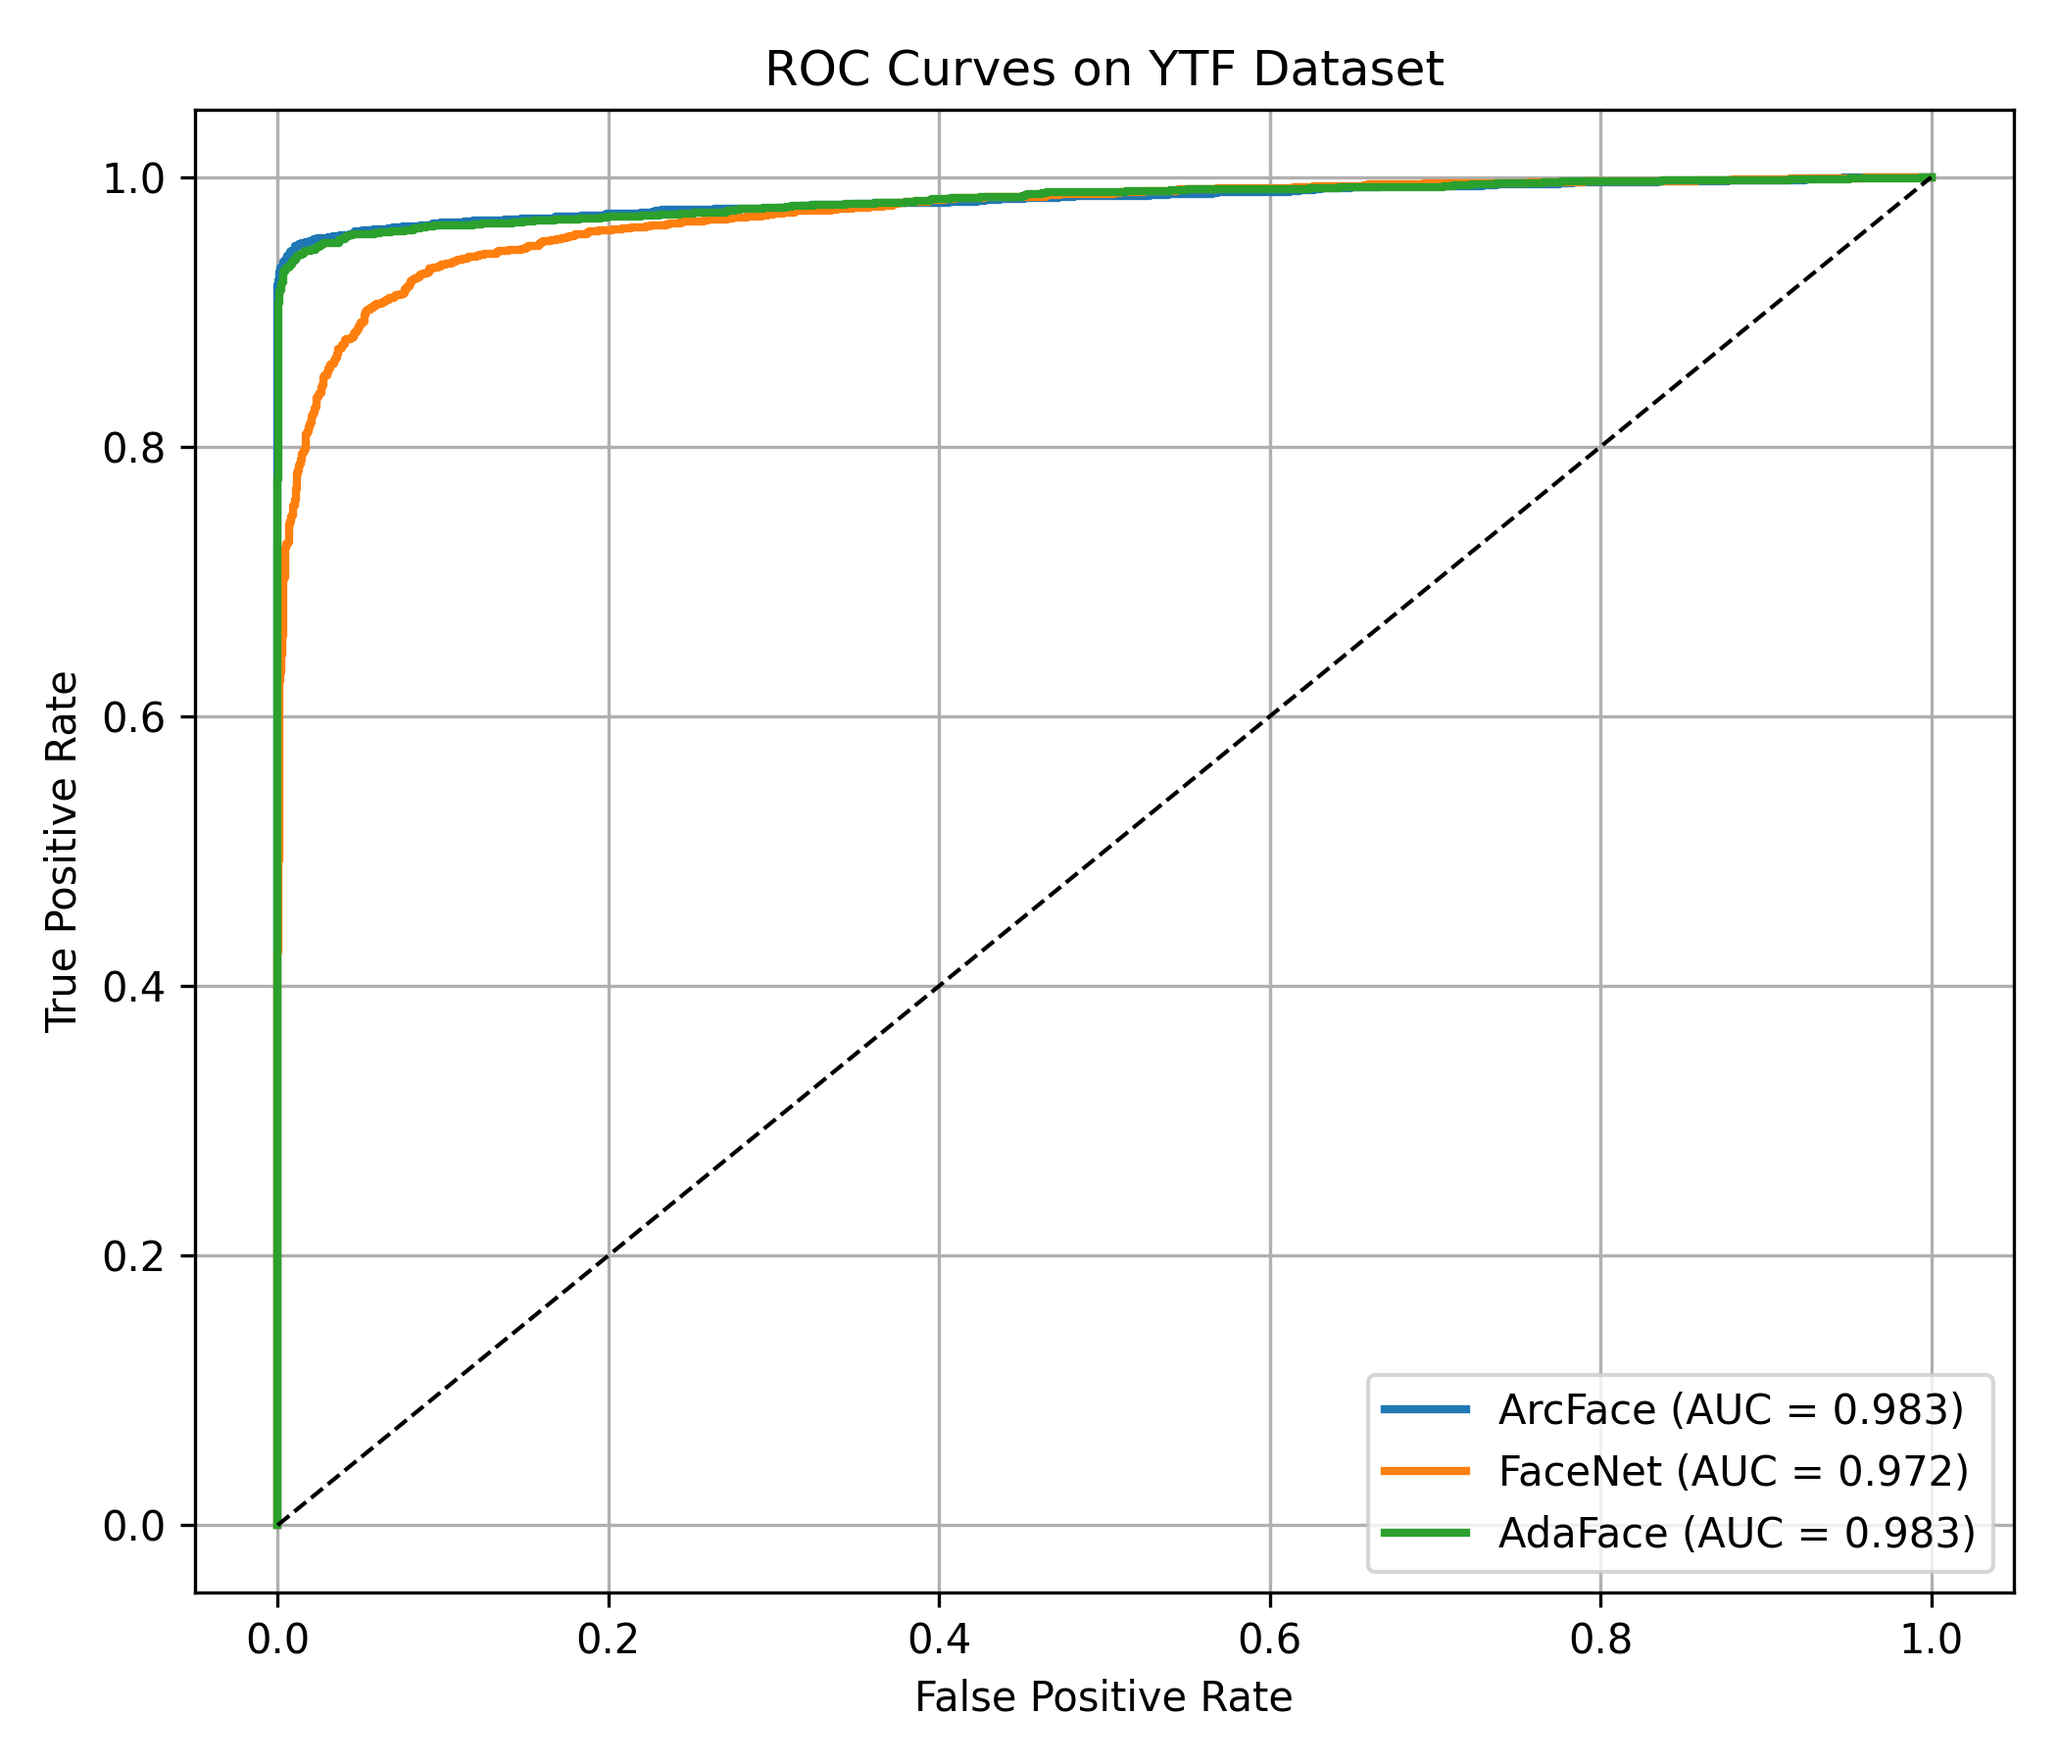
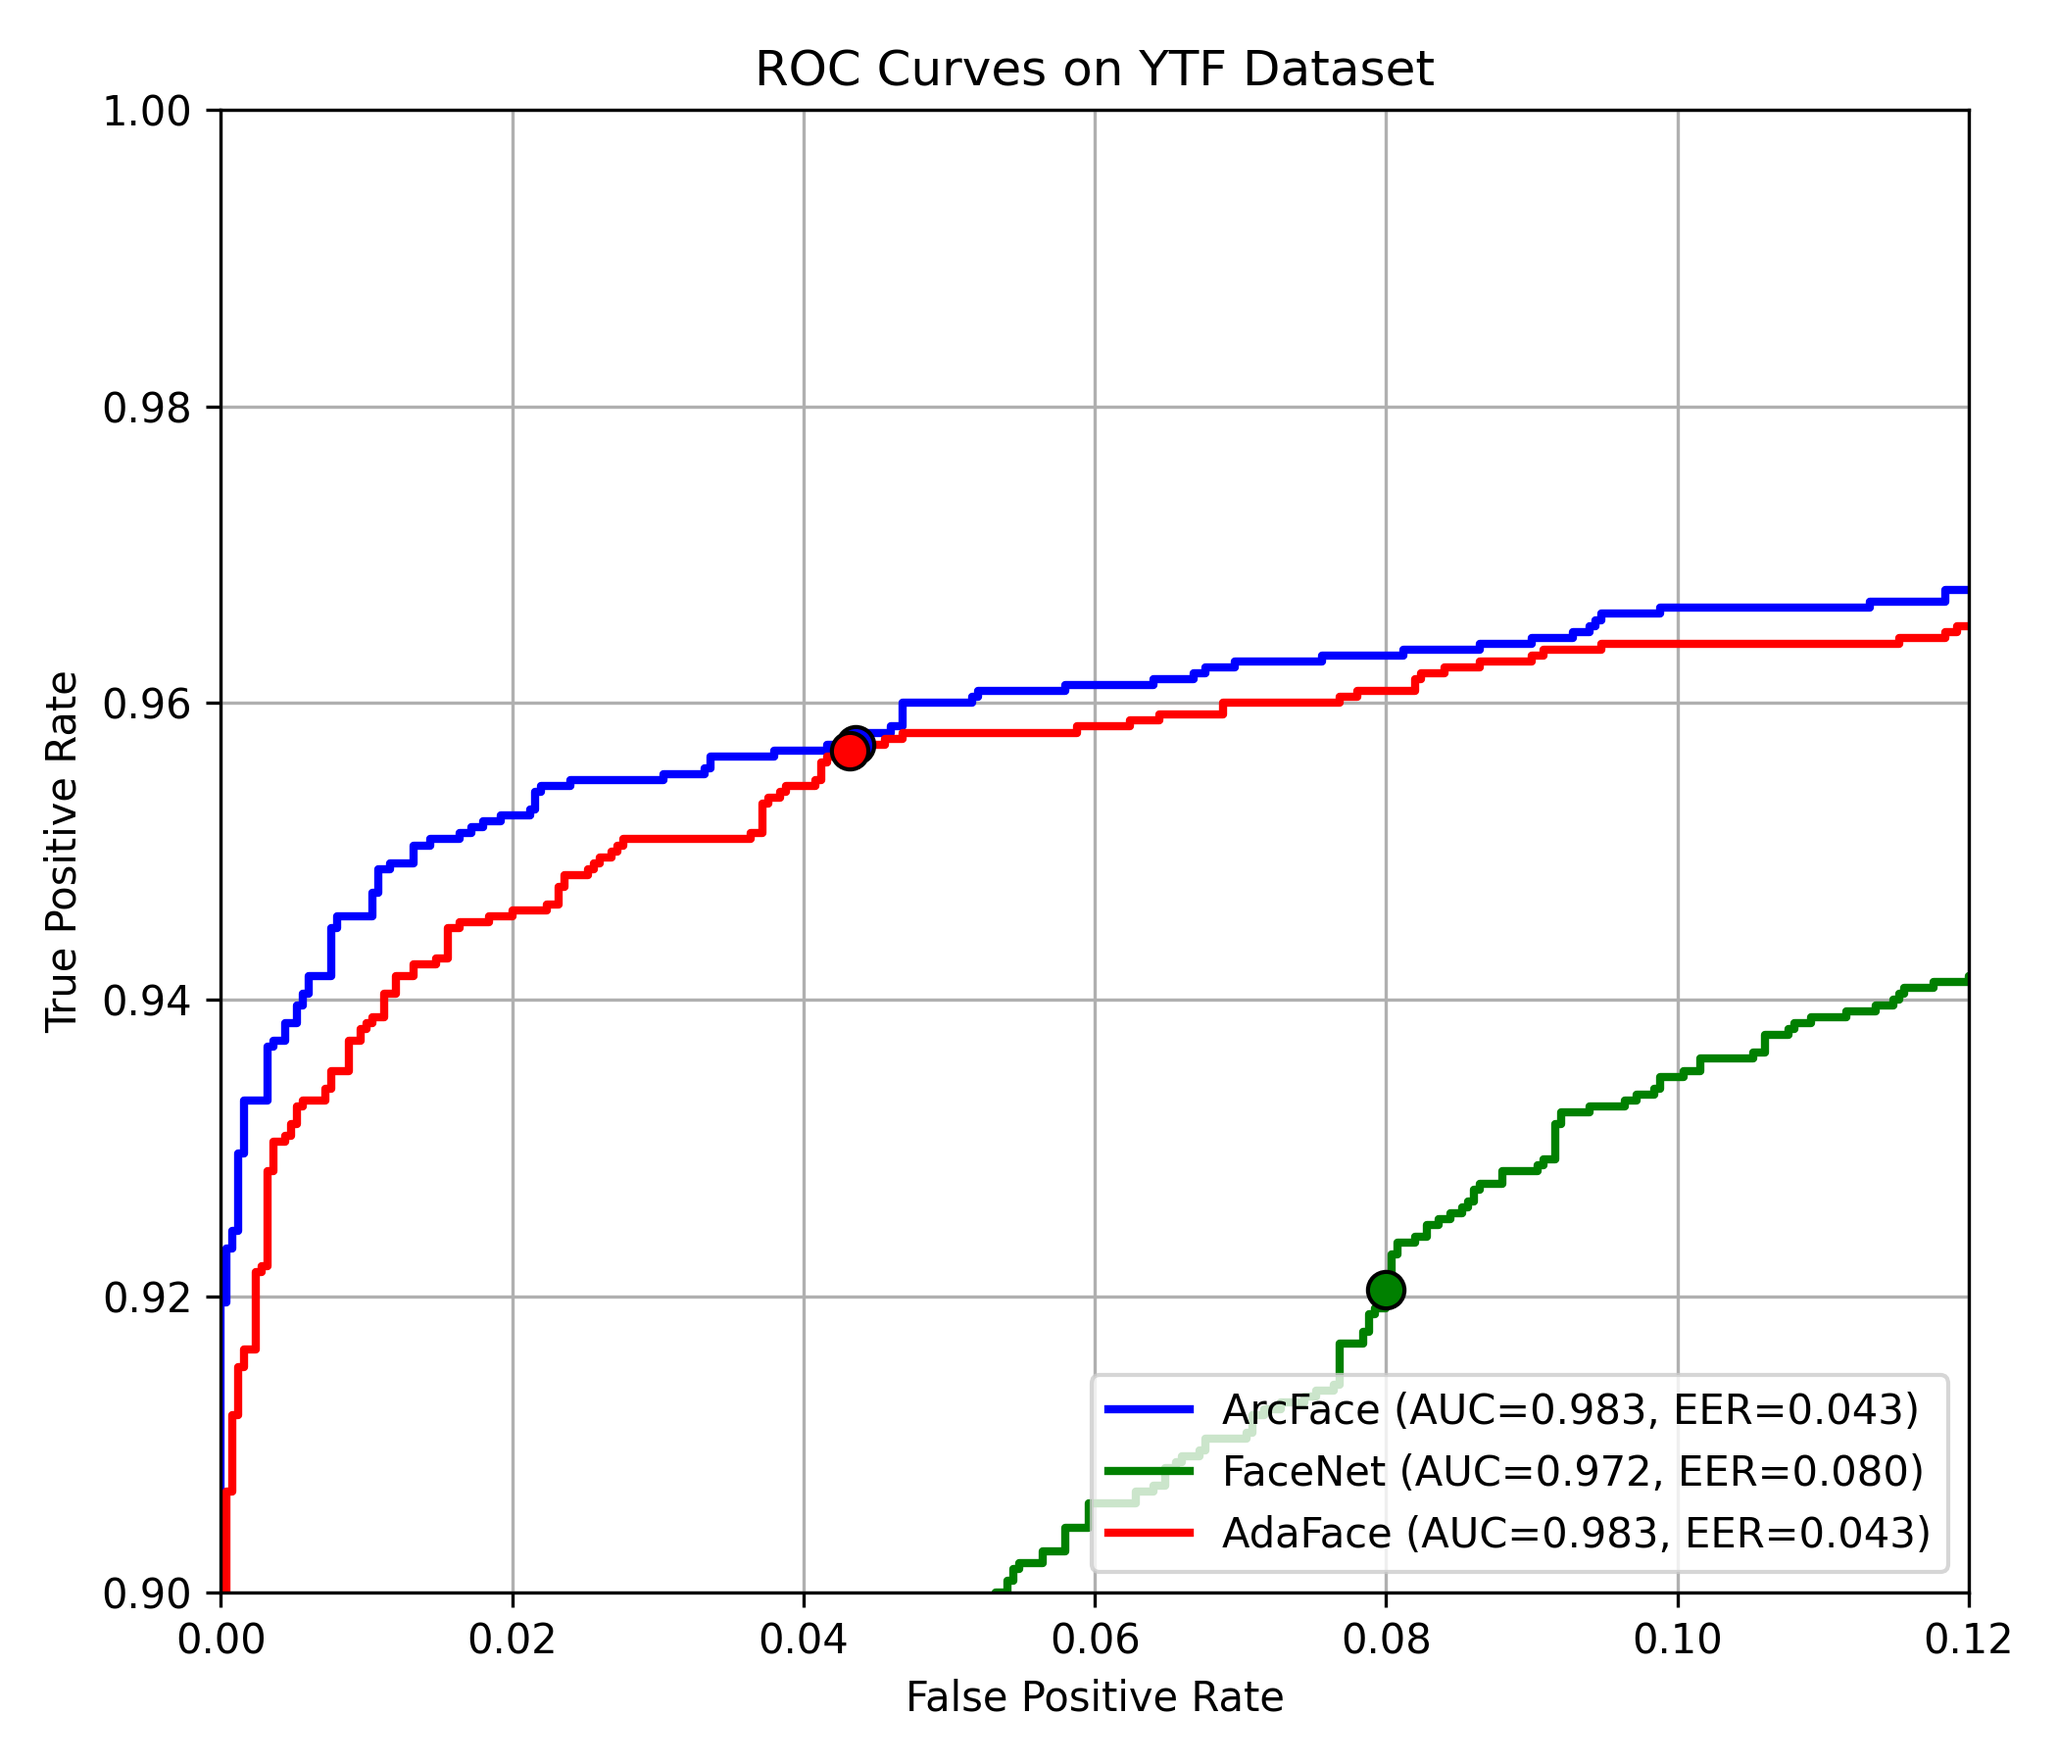
update

diff --git a/src/benchmark_parameters/validation_accuracy/video/exports/plot_roc_ytf_combined.py b/src/benchmark_parameters/validation_accuracy/video/exports/plot_roc_ytf_combined.py
@@ -53,18 +53,46 @@ def load_all_folds(prefix, stamp):
 # -----------------------------
 plt.figure(figsize=(7, 6))
 
+colors = {
+    "ArcFace": "blue",
+    "FaceNet": "green",
+    "AdaFace": "red",
+}
+
 for name, cfg in MODELS.items():
     scores, labels = load_all_folds(cfg["prefix"], cfg["stamp"])
 
-    fpr, tpr, _ = roc_curve(labels, scores)
+    fpr, tpr, thresholds = roc_curve(labels, scores)
     roc_auc = auc(fpr, tpr)
 
+    # --------- EER computation ---------
+    fnr = 1.0 - tpr
+    eer_idx = np.nanargmin(np.abs(fnr - fpr))
+    eer = (fpr[eer_idx] + fnr[eer_idx]) / 2.0
+    eer_fpr = fpr[eer_idx]
+    eer_tpr = tpr[eer_idx]
+    # ----------------------------------
+
+    # ROC curve (color per model)
     plt.plot(
         fpr,
         tpr,
         linewidth=2,
-        label=f"{name} (AUC = {roc_auc:.3f})",
+        color=colors[name],
+        label=f"{name} (AUC={roc_auc:.3f}, EER={eer:.3f})",
     )
+
+    # 🔴 EER point (same color as curve)
+    plt.scatter(
+        eer_fpr,
+        eer_tpr,
+        color=colors[name],
+        s=80,
+        marker="o",
+        edgecolors="black",
+        zorder=5,
+    )
+
 
 # random baseline
 plt.plot([0, 1], [0, 1], "k--", linewidth=1)
@@ -74,6 +102,11 @@ plt.ylabel("True Positive Rate")
 plt.title("ROC Curves on YTF Dataset")
 plt.legend(loc="lower right")
 plt.grid(True)
+
+# 🔍 ZOOM into EER region (ADD HERE)
+plt.xlim(0, 0.12)
+plt.ylim(0.90, 1.0)
+
 
 plt.tight_layout()
 plt.savefig("roc_ytf_all_models.png", dpi=300)
